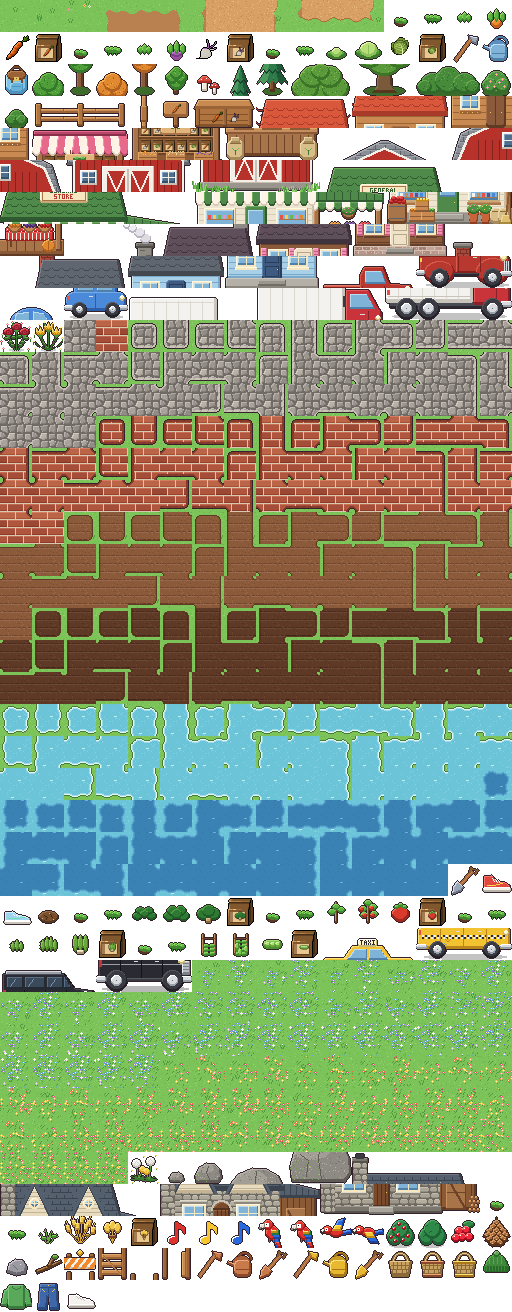
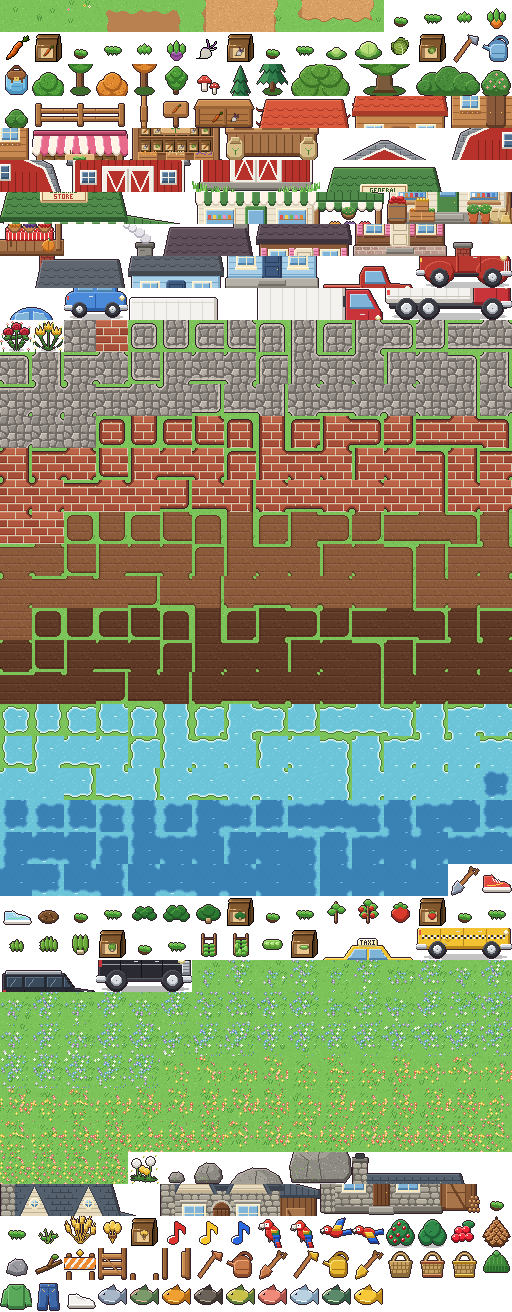
Fishing: cast at any water, reel in on the bite; two fish per season plus a rare golden carp
Claude-Session: https://claude.ai/code/session_01CUFVZi26bpobXi6vd3NcwX

Changed region(s): [[0.1875, 0.9688, 0.75, 1.0]]

diff --git a/src/art-index.js b/src/art-index.js
@@ -1,2 +1,2 @@
 // Generated by tools/make_art.py: tile names -> index in assets/art/world.png (16 columns of 32x32).
-export const A = {"grass0": 0, "grass1": 1, "grass2": 2, "path0": 3, "path1": 4, "path2": 5, "path3": 6, "path4": 7, "path5": 8, "path6": 9, "path7": 10, "path8": 11, "carrot0": 12, "carrot1": 13, "carrot2": 14, "carrot3": 15, "carrot_item": 16, "carrot_packet": 17, "turnip0": 18, "turnip1": 19, "turnip2": 20, "turnip3": 21, "turnip_item": 22, "turnip_packet": 23, "cabbage0": 24, "cabbage1": 25, "cabbage2": 26, "cabbage3": 27, "cabbage_item": 28, "cabbage_packet": 29, "hoe": 30, "can": 31, "bag": 32, "tree_green_0": 33, "tree_green_1": 34, "tree_orange_0": 35, "tree_orange_1": 36, "tree": 37, "mushrooms": 38, "pine_0": 39, "pine_1": 40, "oak_0": 41, "oak_1": 42, "oak_2": 43, "oak_3": 44, "shrub_large_0": 45, "shrub_large_1": 46, "shrub_flower": 47, "shrub_small": 48, "fence0": 49, "fence1": 50, "fence2": 51, "fence3": 52, "sign": 53, "bin_0": 54, "bin_1": 55, "house_0": 56, "house_1": 57, "house_2": 58, "house_3": 59, "house_4": 60, "house_5": 61, "house_6": 62, "house_7": 63, "house_8": 64, "shop_0": 65, "shop_1": 66, "shop_2": 67, "shop_3": 68, "shop_4": 69, "shop_5": 70, "shop_6": 71, "shop_7": 72, "shop_8": 73, "barn_0": 74, "barn_1": 75, "barn_2": 76, "barn_3": 77, "barn_4": 78, "barn_5": 79, "barn_6": 80, "barn_7": 81, "barn_8": 82, "barn_9": 83, "barn_10": 84, "barn_11": 85, "barn_12": 86, "barn_13": 87, "barn_14": 88, "barn_15": 89, "store_0": 90, "store_1": 91, "store_2": 92, "store_3": 93, "store_4": 94, "store_5": 95, "store_6": 96, "store_7": 97, "store_8": 98, "store_9": 99, "store_10": 100, "store_11": 101, "store_12": 102, "store_13": 103, "store_14": 104, "store_15": 105, "store_16": 106, "store_17": 107, "store_18": 108, "store_19": 109, "store_20": 110, "store_21": 111, "store_22": 112, "store_23": 113, "house_brown_0": 114, "house_brown_1": 115, "house_brown_2": 116, "house_brown_3": 117, "house_brown_4": 118, "house_brown_5": 119, "house_brown_6": 120, "house_brown_7": 121, "house_brown_8": 122, "house_brown_9": 123, "house_brown_10": 124, "house_brown_11": 125, "house_blue_0": 126, "house_blue_1": 127, "house_blue_2": 128, "house_blue_3": 129, "house_blue_4": 130, "house_blue_5": 131, "house_blue_6": 132, "house_blue_7": 133, "house_blue_8": 134, "house_blue_9": 135, "house_blue_10": 136, "house_blue_11": 137, "pickup_0": 138, "pickup_1": 139, "pickup_2": 140, "pickup_3": 141, "pickup_4": 142, "pickup_5": 143, "car_small_0": 144, "car_small_1": 145, "car_small_2": 146, "car_small_3": 147, "box_truck_0": 148, "box_truck_1": 149, "box_truck_2": 150, "box_truck_3": 151, "box_truck_4": 152, "box_truck_5": 153, "box_truck_6": 154, "box_truck_7": 155, "box_truck_8": 156, "box_truck_9": 157, "box_truck_10": 158, "box_truck_11": 159, "roses": 160, "tulips": 161, "cobble0": 162, "brick0": 163, "cobbleb0": 164, "cobbleb1": 165, "cobbleb2": 166, "cobbleb3": 167, "cobbleb4": 168, "cobbleb5": 169, "cobbleb6": 170, "cobbleb7": 171, "cobbleb8": 172, "cobbleb9": 173, "cobbleb10": 174, "cobbleb11": 175, "cobbleb12": 176, "cobbleb13": 177, "cobbleb14": 178, "cobbleb15": 179, "cobbleb16": 180, "cobbleb17": 181, "cobbleb18": 182, "cobbleb19": 183, "cobbleb20": 184, "cobbleb21": 185, "cobbleb22": 186, "cobbleb23": 187, "cobbleb24": 188, "cobbleb25": 189, "cobbleb26": 190, "cobbleb27": 191, "cobbleb28": 192, "cobbleb29": 193, "cobbleb30": 194, "cobbleb31": 195, "cobbleb32": 196, "cobbleb33": 197, "cobbleb34": 198, "cobbleb35": 199, "cobbleb36": 200, "cobbleb37": 201, "cobbleb38": 202, "cobbleb39": 203, "cobbleb40": 204, "cobbleb41": 205, "cobbleb42": 206, "cobbleb43": 207, "cobbleb44": 208, "cobbleb45": 209, "cobbleb46": 210, "brickb0": 211, "brickb1": 212, "brickb2": 213, "brickb3": 214, "brickb4": 215, "brickb5": 216, "brickb6": 217, "brickb7": 218, "brickb8": 219, "brickb9": 220, "brickb10": 221, "brickb11": 222, "brickb12": 223, "brickb13": 224, "brickb14": 225, "brickb15": 226, "brickb16": 227, "brickb17": 228, "brickb18": 229, "brickb19": 230, "brickb20": 231, "brickb21": 232, "brickb22": 233, "brickb23": 234, "brickb24": 235, "brickb25": 236, "brickb26": 237, "brickb27": 238, "brickb28": 239, "brickb29": 240, "brickb30": 241, "brickb31": 242, "brickb32": 243, "brickb33": 244, "brickb34": 245, "brickb35": 246, "brickb36": 247, "brickb37": 248, "brickb38": 249, "brickb39": 250, "brickb40": 251, "brickb41": 252, "brickb42": 253, "brickb43": 254, "brickb44": 255, "brickb45": 256, "brickb46": 257, "soil0": 258, "soil1": 259, "soil2": 260, "soil3": 261, "soil4": 262, "soil5": 263, "soil6": 264, "soil7": 265, "soil8": 266, "soil9": 267, "soil10": 268, "soil11": 269, "soil12": 270, "soil13": 271, "soil14": 272, "soil15": 273, "soil16": 274, "soil17": 275, "soil18": 276, "soil19": 277, "soil20": 278, "soil21": 279, "soil22": 280, "soil23": 281, "soil24": 282, "soil25": 283, "soil26": 284, "soil27": 285, "soil28": 286, "soil29": 287, "soil30": 288, "soil31": 289, "soil32": 290, "soil33": 291, "soil34": 292, "soil35": 293, "soil36": 294, "soil37": 295, "soil38": 296, "soil39": 297, "soil40": 298, "soil41": 299, "soil42": 300, "soil43": 301, "soil44": 302, "soil45": 303, "soil46": 304, "soilwet0": 305, "soilwet1": 306, "soilwet2": 307, "soilwet3": 308, "soilwet4": 309, "soilwet5": 310, "soilwet6": 311, "soilwet7": 312, "soilwet8": 313, "soilwet9": 314, "soilwet10": 315, "soilwet11": 316, "soilwet12": 317, "soilwet13": 318, "soilwet14": 319, "soilwet15": 320, "soilwet16": 321, "soilwet17": 322, "soilwet18": 323, "soilwet19": 324, "soilwet20": 325, "soilwet21": 326, "soilwet22": 327, "soilwet23": 328, "soilwet24": 329, "soilwet25": 330, "soilwet26": 331, "soilwet27": 332, "soilwet28": 333, "soilwet29": 334, "soilwet30": 335, "soilwet31": 336, "soilwet32": 337, "soilwet33": 338, "soilwet34": 339, "soilwet35": 340, "soilwet36": 341, "soilwet37": 342, "soilwet38": 343, "soilwet39": 344, "soilwet40": 345, "soilwet41": 346, "soilwet42": 347, "soilwet43": 348, "soilwet44": 349, "soilwet45": 350, "soilwet46": 351, "shallow0": 352, "shallow1": 353, "shallow2": 354, "shallow3": 355, "shallow4": 356, "shallow5": 357, "shallow6": 358, "shallow7": 359, "shallow8": 360, "shallow9": 361, "shallow10": 362, "shallow11": 363, "shallow12": 364, "shallow13": 365, "shallow14": 366, "shallow15": 367, "shallow16": 368, "shallow17": 369, "shallow18": 370, "shallow19": 371, "shallow20": 372, "shallow21": 373, "shallow22": 374, "shallow23": 375, "shallow24": 376, "shallow25": 377, "shallow26": 378, "shallow27": 379, "shallow28": 380, "shallow29": 381, "shallow30": 382, "shallow31": 383, "shallow32": 384, "shallow33": 385, "shallow34": 386, "shallow35": 387, "shallow36": 388, "shallow37": 389, "shallow38": 390, "shallow39": 391, "shallow40": 392, "shallow41": 393, "shallow42": 394, "shallow43": 395, "shallow44": 396, "shallow45": 397, "shallow46": 398, "deep0": 399, "deep1": 400, "deep2": 401, "deep3": 402, "deep4": 403, "deep5": 404, "deep6": 405, "deep7": 406, "deep8": 407, "deep9": 408, "deep10": 409, "deep11": 410, "deep12": 411, "deep13": 412, "deep14": 413, "deep15": 414, "deep16": 415, "deep17": 416, "deep18": 417, "deep19": 418, "deep20": 419, "deep21": 420, "deep22": 421, "deep23": 422, "deep24": 423, "deep25": 424, "deep26": 425, "deep27": 426, "deep28": 427, "deep29": 428, "deep30": 429, "deep31": 430, "deep32": 431, "deep33": 432, "deep34": 433, "deep35": 434, "deep36": 435, "deep37": 436, "deep38": 437, "deep39": 438, "deep40": 439, "deep41": 440, "deep42": 441, "deep43": 442, "deep44": 443, "deep45": 444, "deep46": 445, "shovel": 446, "shoes": 447, "sneakers": 448, "dig_spot": 449, "spinach0": 450, "spinach1": 451, "spinach2": 452, "spinach3": 453, "spinach_item": 454, "spinach_packet": 455, "tomato0": 456, "tomato1": 457, "tomato2": 458, "tomato3": 459, "tomato_item": 460, "tomato_packet": 461, "arugula0": 462, "arugula1": 463, "arugula2": 464, "arugula3": 465, "arugula_item": 466, "arugula_packet": 467, "peas0": 468, "peas1": 469, "peas2": 470, "peas3": 471, "peas_item": 472, "peas_packet": 473, "taxi_0": 474, "taxi_1": 475, "taxi_2": 476, "taxi_3": 477, "taxi_4": 478, "taxi_5": 479, "suv_0": 480, "suv_1": 481, "suv_2": 482, "suv_3": 483, "suv_4": 484, "suv_5": 485, "wildcool0": 486, "wildcool1": 487, "wildcool2": 488, "wildcool3": 489, "wildcool4": 490, "wildcool5": 491, "wildcool6": 492, "wildcool7": 493, "wildcool8": 494, "wildcool9": 495, "wildcool10": 496, "wildcool11": 497, "wildcool12": 498, "wildcool13": 499, "wildcool14": 500, "wildcool15": 501, "wildcool16": 502, "wildcool17": 503, "wildcool18": 504, "wildcool19": 505, "wildcool20": 506, "wildcool21": 507, "wildcool22": 508, "wildcool23": 509, "wildcool24": 510, "wildcool25": 511, "wildcool26": 512, "wildcool27": 513, "wildcool28": 514, "wildcool29": 515, "wildcool30": 516, "wildcool31": 517, "wildcool32": 518, "wildcool33": 519, "wildcool34": 520, "wildcool35": 521, "wildcool36": 522, "wildcool37": 523, "wildcool38": 524, "wildcool39": 525, "wildcool40": 526, "wildcool41": 527, "wildcool42": 528, "wildcool43": 529, "wildcool44": 530, "wildcool45": 531, "wildcool46": 532, "wildwarm0": 533, "wildwarm1": 534, "wildwarm2": 535, "wildwarm3": 536, "wildwarm4": 537, "wildwarm5": 538, "wildwarm6": 539, "wildwarm7": 540, "wildwarm8": 541, "wildwarm9": 542, "wildwarm10": 543, "wildwarm11": 544, "wildwarm12": 545, "wildwarm13": 546, "wildwarm14": 547, "wildwarm15": 548, "wildwarm16": 549, "wildwarm17": 550, "wildwarm18": 551, "wildwarm19": 552, "wildwarm20": 553, "wildwarm21": 554, "wildwarm22": 555, "wildwarm23": 556, "wildwarm24": 557, "wildwarm25": 558, "wildwarm26": 559, "wildwarm27": 560, "wildwarm28": 561, "wildwarm29": 562, "wildwarm30": 563, "wildwarm31": 564, "wildwarm32": 565, "wildwarm33": 566, "wildwarm34": 567, "wildwarm35": 568, "wildwarm36": 569, "wildwarm37": 570, "wildwarm38": 571, "wildwarm39": 572, "wildwarm40": 573, "wildwarm41": 574, "wildwarm42": 575, "wildwarm43": 576, "wildwarm44": 577, "wildwarm45": 578, "wildwarm46": 579, "dandelions": 580, "rock_small": 581, "rock_medium": 582, "rock_large_0": 583, "rock_large_1": 584, "rock_large_2": 585, "rock_large_3": 586, "stone_house_0": 587, "stone_house_1": 588, "stone_house_2": 589, "stone_house_3": 590, "stone_house_4": 591, "stone_house_5": 592, "stone_house_6": 593, "stone_house_7": 594, "stone_house_8": 595, "stone_house_9": 596, "stone_house_10": 597, "stone_house_11": 598, "stone_house_12": 599, "stone_house_13": 600, "stone_house_14": 601, "stone_house_15": 602, "stone_house_16": 603, "stone_house_17": 604, "stone_house_18": 605, "stone_house_19": 606, "wheat0": 607, "wheat1": 608, "wheat2": 609, "wheat3": 610, "wheat_item": 611, "wheat_packet": 612, "note_red": 613, "note_yellow": 614, "note_blue": 615, "bird0": 616, "bird1": 617, "bird_fly0": 618, "bird_fly1": 619, "berry_bush": 620, "berry_bush_bare": 621, "berries": 622, "pinecone": 623, "stone": 624, "stick": 625, "gate_0": 626, "gate_1": 627, "gate_open_0": 628, "gate_open_1": 629, "hoe_copper": 630, "can_copper": 631, "shovel_copper": 632, "hoe_gold": 633, "can_gold": 634, "shovel_gold": 635, "basket": 636, "basket_copper": 637, "basket_gold": 638, "beanie": 639, "longsleeve": 640, "jeans": 641, "white_sneakers": 642};
+export const A = {"grass0": 0, "grass1": 1, "grass2": 2, "path0": 3, "path1": 4, "path2": 5, "path3": 6, "path4": 7, "path5": 8, "path6": 9, "path7": 10, "path8": 11, "carrot0": 12, "carrot1": 13, "carrot2": 14, "carrot3": 15, "carrot_item": 16, "carrot_packet": 17, "turnip0": 18, "turnip1": 19, "turnip2": 20, "turnip3": 21, "turnip_item": 22, "turnip_packet": 23, "cabbage0": 24, "cabbage1": 25, "cabbage2": 26, "cabbage3": 27, "cabbage_item": 28, "cabbage_packet": 29, "hoe": 30, "can": 31, "bag": 32, "tree_green_0": 33, "tree_green_1": 34, "tree_orange_0": 35, "tree_orange_1": 36, "tree": 37, "mushrooms": 38, "pine_0": 39, "pine_1": 40, "oak_0": 41, "oak_1": 42, "oak_2": 43, "oak_3": 44, "shrub_large_0": 45, "shrub_large_1": 46, "shrub_flower": 47, "shrub_small": 48, "fence0": 49, "fence1": 50, "fence2": 51, "fence3": 52, "sign": 53, "bin_0": 54, "bin_1": 55, "house_0": 56, "house_1": 57, "house_2": 58, "house_3": 59, "house_4": 60, "house_5": 61, "house_6": 62, "house_7": 63, "house_8": 64, "shop_0": 65, "shop_1": 66, "shop_2": 67, "shop_3": 68, "shop_4": 69, "shop_5": 70, "shop_6": 71, "shop_7": 72, "shop_8": 73, "barn_0": 74, "barn_1": 75, "barn_2": 76, "barn_3": 77, "barn_4": 78, "barn_5": 79, "barn_6": 80, "barn_7": 81, "barn_8": 82, "barn_9": 83, "barn_10": 84, "barn_11": 85, "barn_12": 86, "barn_13": 87, "barn_14": 88, "barn_15": 89, "store_0": 90, "store_1": 91, "store_2": 92, "store_3": 93, "store_4": 94, "store_5": 95, "store_6": 96, "store_7": 97, "store_8": 98, "store_9": 99, "store_10": 100, "store_11": 101, "store_12": 102, "store_13": 103, "store_14": 104, "store_15": 105, "store_16": 106, "store_17": 107, "store_18": 108, "store_19": 109, "store_20": 110, "store_21": 111, "store_22": 112, "store_23": 113, "house_brown_0": 114, "house_brown_1": 115, "house_brown_2": 116, "house_brown_3": 117, "house_brown_4": 118, "house_brown_5": 119, "house_brown_6": 120, "house_brown_7": 121, "house_brown_8": 122, "house_brown_9": 123, "house_brown_10": 124, "house_brown_11": 125, "house_blue_0": 126, "house_blue_1": 127, "house_blue_2": 128, "house_blue_3": 129, "house_blue_4": 130, "house_blue_5": 131, "house_blue_6": 132, "house_blue_7": 133, "house_blue_8": 134, "house_blue_9": 135, "house_blue_10": 136, "house_blue_11": 137, "pickup_0": 138, "pickup_1": 139, "pickup_2": 140, "pickup_3": 141, "pickup_4": 142, "pickup_5": 143, "car_small_0": 144, "car_small_1": 145, "car_small_2": 146, "car_small_3": 147, "box_truck_0": 148, "box_truck_1": 149, "box_truck_2": 150, "box_truck_3": 151, "box_truck_4": 152, "box_truck_5": 153, "box_truck_6": 154, "box_truck_7": 155, "box_truck_8": 156, "box_truck_9": 157, "box_truck_10": 158, "box_truck_11": 159, "roses": 160, "tulips": 161, "cobble0": 162, "brick0": 163, "cobbleb0": 164, "cobbleb1": 165, "cobbleb2": 166, "cobbleb3": 167, "cobbleb4": 168, "cobbleb5": 169, "cobbleb6": 170, "cobbleb7": 171, "cobbleb8": 172, "cobbleb9": 173, "cobbleb10": 174, "cobbleb11": 175, "cobbleb12": 176, "cobbleb13": 177, "cobbleb14": 178, "cobbleb15": 179, "cobbleb16": 180, "cobbleb17": 181, "cobbleb18": 182, "cobbleb19": 183, "cobbleb20": 184, "cobbleb21": 185, "cobbleb22": 186, "cobbleb23": 187, "cobbleb24": 188, "cobbleb25": 189, "cobbleb26": 190, "cobbleb27": 191, "cobbleb28": 192, "cobbleb29": 193, "cobbleb30": 194, "cobbleb31": 195, "cobbleb32": 196, "cobbleb33": 197, "cobbleb34": 198, "cobbleb35": 199, "cobbleb36": 200, "cobbleb37": 201, "cobbleb38": 202, "cobbleb39": 203, "cobbleb40": 204, "cobbleb41": 205, "cobbleb42": 206, "cobbleb43": 207, "cobbleb44": 208, "cobbleb45": 209, "cobbleb46": 210, "brickb0": 211, "brickb1": 212, "brickb2": 213, "brickb3": 214, "brickb4": 215, "brickb5": 216, "brickb6": 217, "brickb7": 218, "brickb8": 219, "brickb9": 220, "brickb10": 221, "brickb11": 222, "brickb12": 223, "brickb13": 224, "brickb14": 225, "brickb15": 226, "brickb16": 227, "brickb17": 228, "brickb18": 229, "brickb19": 230, "brickb20": 231, "brickb21": 232, "brickb22": 233, "brickb23": 234, "brickb24": 235, "brickb25": 236, "brickb26": 237, "brickb27": 238, "brickb28": 239, "brickb29": 240, "brickb30": 241, "brickb31": 242, "brickb32": 243, "brickb33": 244, "brickb34": 245, "brickb35": 246, "brickb36": 247, "brickb37": 248, "brickb38": 249, "brickb39": 250, "brickb40": 251, "brickb41": 252, "brickb42": 253, "brickb43": 254, "brickb44": 255, "brickb45": 256, "brickb46": 257, "soil0": 258, "soil1": 259, "soil2": 260, "soil3": 261, "soil4": 262, "soil5": 263, "soil6": 264, "soil7": 265, "soil8": 266, "soil9": 267, "soil10": 268, "soil11": 269, "soil12": 270, "soil13": 271, "soil14": 272, "soil15": 273, "soil16": 274, "soil17": 275, "soil18": 276, "soil19": 277, "soil20": 278, "soil21": 279, "soil22": 280, "soil23": 281, "soil24": 282, "soil25": 283, "soil26": 284, "soil27": 285, "soil28": 286, "soil29": 287, "soil30": 288, "soil31": 289, "soil32": 290, "soil33": 291, "soil34": 292, "soil35": 293, "soil36": 294, "soil37": 295, "soil38": 296, "soil39": 297, "soil40": 298, "soil41": 299, "soil42": 300, "soil43": 301, "soil44": 302, "soil45": 303, "soil46": 304, "soilwet0": 305, "soilwet1": 306, "soilwet2": 307, "soilwet3": 308, "soilwet4": 309, "soilwet5": 310, "soilwet6": 311, "soilwet7": 312, "soilwet8": 313, "soilwet9": 314, "soilwet10": 315, "soilwet11": 316, "soilwet12": 317, "soilwet13": 318, "soilwet14": 319, "soilwet15": 320, "soilwet16": 321, "soilwet17": 322, "soilwet18": 323, "soilwet19": 324, "soilwet20": 325, "soilwet21": 326, "soilwet22": 327, "soilwet23": 328, "soilwet24": 329, "soilwet25": 330, "soilwet26": 331, "soilwet27": 332, "soilwet28": 333, "soilwet29": 334, "soilwet30": 335, "soilwet31": 336, "soilwet32": 337, "soilwet33": 338, "soilwet34": 339, "soilwet35": 340, "soilwet36": 341, "soilwet37": 342, "soilwet38": 343, "soilwet39": 344, "soilwet40": 345, "soilwet41": 346, "soilwet42": 347, "soilwet43": 348, "soilwet44": 349, "soilwet45": 350, "soilwet46": 351, "shallow0": 352, "shallow1": 353, "shallow2": 354, "shallow3": 355, "shallow4": 356, "shallow5": 357, "shallow6": 358, "shallow7": 359, "shallow8": 360, "shallow9": 361, "shallow10": 362, "shallow11": 363, "shallow12": 364, "shallow13": 365, "shallow14": 366, "shallow15": 367, "shallow16": 368, "shallow17": 369, "shallow18": 370, "shallow19": 371, "shallow20": 372, "shallow21": 373, "shallow22": 374, "shallow23": 375, "shallow24": 376, "shallow25": 377, "shallow26": 378, "shallow27": 379, "shallow28": 380, "shallow29": 381, "shallow30": 382, "shallow31": 383, "shallow32": 384, "shallow33": 385, "shallow34": 386, "shallow35": 387, "shallow36": 388, "shallow37": 389, "shallow38": 390, "shallow39": 391, "shallow40": 392, "shallow41": 393, "shallow42": 394, "shallow43": 395, "shallow44": 396, "shallow45": 397, "shallow46": 398, "deep0": 399, "deep1": 400, "deep2": 401, "deep3": 402, "deep4": 403, "deep5": 404, "deep6": 405, "deep7": 406, "deep8": 407, "deep9": 408, "deep10": 409, "deep11": 410, "deep12": 411, "deep13": 412, "deep14": 413, "deep15": 414, "deep16": 415, "deep17": 416, "deep18": 417, "deep19": 418, "deep20": 419, "deep21": 420, "deep22": 421, "deep23": 422, "deep24": 423, "deep25": 424, "deep26": 425, "deep27": 426, "deep28": 427, "deep29": 428, "deep30": 429, "deep31": 430, "deep32": 431, "deep33": 432, "deep34": 433, "deep35": 434, "deep36": 435, "deep37": 436, "deep38": 437, "deep39": 438, "deep40": 439, "deep41": 440, "deep42": 441, "deep43": 442, "deep44": 443, "deep45": 444, "deep46": 445, "shovel": 446, "shoes": 447, "sneakers": 448, "dig_spot": 449, "spinach0": 450, "spinach1": 451, "spinach2": 452, "spinach3": 453, "spinach_item": 454, "spinach_packet": 455, "tomato0": 456, "tomato1": 457, "tomato2": 458, "tomato3": 459, "tomato_item": 460, "tomato_packet": 461, "arugula0": 462, "arugula1": 463, "arugula2": 464, "arugula3": 465, "arugula_item": 466, "arugula_packet": 467, "peas0": 468, "peas1": 469, "peas2": 470, "peas3": 471, "peas_item": 472, "peas_packet": 473, "taxi_0": 474, "taxi_1": 475, "taxi_2": 476, "taxi_3": 477, "taxi_4": 478, "taxi_5": 479, "suv_0": 480, "suv_1": 481, "suv_2": 482, "suv_3": 483, "suv_4": 484, "suv_5": 485, "wildcool0": 486, "wildcool1": 487, "wildcool2": 488, "wildcool3": 489, "wildcool4": 490, "wildcool5": 491, "wildcool6": 492, "wildcool7": 493, "wildcool8": 494, "wildcool9": 495, "wildcool10": 496, "wildcool11": 497, "wildcool12": 498, "wildcool13": 499, "wildcool14": 500, "wildcool15": 501, "wildcool16": 502, "wildcool17": 503, "wildcool18": 504, "wildcool19": 505, "wildcool20": 506, "wildcool21": 507, "wildcool22": 508, "wildcool23": 509, "wildcool24": 510, "wildcool25": 511, "wildcool26": 512, "wildcool27": 513, "wildcool28": 514, "wildcool29": 515, "wildcool30": 516, "wildcool31": 517, "wildcool32": 518, "wildcool33": 519, "wildcool34": 520, "wildcool35": 521, "wildcool36": 522, "wildcool37": 523, "wildcool38": 524, "wildcool39": 525, "wildcool40": 526, "wildcool41": 527, "wildcool42": 528, "wildcool43": 529, "wildcool44": 530, "wildcool45": 531, "wildcool46": 532, "wildwarm0": 533, "wildwarm1": 534, "wildwarm2": 535, "wildwarm3": 536, "wildwarm4": 537, "wildwarm5": 538, "wildwarm6": 539, "wildwarm7": 540, "wildwarm8": 541, "wildwarm9": 542, "wildwarm10": 543, "wildwarm11": 544, "wildwarm12": 545, "wildwarm13": 546, "wildwarm14": 547, "wildwarm15": 548, "wildwarm16": 549, "wildwarm17": 550, "wildwarm18": 551, "wildwarm19": 552, "wildwarm20": 553, "wildwarm21": 554, "wildwarm22": 555, "wildwarm23": 556, "wildwarm24": 557, "wildwarm25": 558, "wildwarm26": 559, "wildwarm27": 560, "wildwarm28": 561, "wildwarm29": 562, "wildwarm30": 563, "wildwarm31": 564, "wildwarm32": 565, "wildwarm33": 566, "wildwarm34": 567, "wildwarm35": 568, "wildwarm36": 569, "wildwarm37": 570, "wildwarm38": 571, "wildwarm39": 572, "wildwarm40": 573, "wildwarm41": 574, "wildwarm42": 575, "wildwarm43": 576, "wildwarm44": 577, "wildwarm45": 578, "wildwarm46": 579, "dandelions": 580, "rock_small": 581, "rock_medium": 582, "rock_large_0": 583, "rock_large_1": 584, "rock_large_2": 585, "rock_large_3": 586, "stone_house_0": 587, "stone_house_1": 588, "stone_house_2": 589, "stone_house_3": 590, "stone_house_4": 591, "stone_house_5": 592, "stone_house_6": 593, "stone_house_7": 594, "stone_house_8": 595, "stone_house_9": 596, "stone_house_10": 597, "stone_house_11": 598, "stone_house_12": 599, "stone_house_13": 600, "stone_house_14": 601, "stone_house_15": 602, "stone_house_16": 603, "stone_house_17": 604, "stone_house_18": 605, "stone_house_19": 606, "wheat0": 607, "wheat1": 608, "wheat2": 609, "wheat3": 610, "wheat_item": 611, "wheat_packet": 612, "note_red": 613, "note_yellow": 614, "note_blue": 615, "bird0": 616, "bird1": 617, "bird_fly0": 618, "bird_fly1": 619, "berry_bush": 620, "berry_bush_bare": 621, "berries": 622, "pinecone": 623, "stone": 624, "stick": 625, "gate_0": 626, "gate_1": 627, "gate_open_0": 628, "gate_open_1": 629, "hoe_copper": 630, "can_copper": 631, "shovel_copper": 632, "hoe_gold": 633, "can_gold": 634, "shovel_gold": 635, "basket": 636, "basket_copper": 637, "basket_gold": 638, "beanie": 639, "longsleeve": 640, "jeans": 641, "white_sneakers": 642, "fish_minnow": 643, "fish_trout": 644, "fish_sunfish": 645, "fish_catfish": 646, "fish_perch": 647, "fish_salmon": 648, "fish_smelt": 649, "fish_pike": 650, "fish_carp": 651};

diff --git a/src/scenes.js b/src/scenes.js
@@ -15,7 +15,7 @@ import { Events, MINSTREL_LINES } from './events.js';
 import { GATES } from './unlocks.js';
 import { Quests } from './quests.js';
 import { UPGRADES, START_LEVELS, MAX_LEVEL, toolIcon, toolName, costText, area } from './upgrades.js';
-import { FORAGE, SPREAD, scatterForage, bushAt, pickBush, regrowBushes } from './forage.js';
+import { FORAGE, CAST_ENERGY, BITE_WAIT, BITE_TIME, catchFish, SPREAD, scatterForage, bushAt, pickBush, regrowBushes } from './forage.js';
 import { PLANTS, DIG_SPOTS, DIG_ENERGY, scatterDigs, digFind } from './dig.js';
 import { A } from './art-index.js';
 import { PET_CHANCE, KINDS, SOUNDS, TRUST, MAX_PETS, petLook, paintPet, earnTrust } from './pets.js';
@@ -309,6 +309,7 @@ export class World {
       }
     }
     if (!this.open && (inp.hit('Space', 'KeyE', 'Enter') || inp.tapIn(...b.act))) this.act();
+    this.fish(dt);
     this.clock.update(dt * 1000);
     this.schedule();
     this.events.update(this, dt);
@@ -578,10 +579,34 @@ export class World {
     return `${Math.floor((this.x + 8 + dx * 10) / TILE)},${Math.floor((this.y + 13 + dy * 10) / TILE)}`;
   }
 
+  // Fishing: Use facing water casts a line; a while later something bites, and Use again in time lands it. Walking off reels in.
+  waterAt(key) { const [x, y] = key.split(',').map(Number), m = this.map; return x >= 0 && y >= 0 && x < m.W && y < m.H && /^(shallow|deep)/.test(m.ground[y * m.W + x]); }
+  cast(key) {
+    if (!this.clock.useEnergy(CAST_ENERGY)) { sfx('nope'); return this.say('Too tired to fish. Sleep at your front door.'); }
+    this.fishing = { key, t: BITE_WAIT[0] + Math.random() * (BITE_WAIT[1] - BITE_WAIT[0]), bite: false, x: this.x, y: this.y };
+    sfx('water'); this.say(this.clock.season === 3 ? 'You drop a line through the ice... Press Use when it bites!' : 'You cast a line... Press Use when it bites!');
+  }
+  reel() {
+    const f = this.fishing; this.fishing = null;
+    if (!f.bite) return this.say('You pulled too soon.');
+    const id = catchFish(this.clock.season);
+    if (!this.inv.add(id, 1)) return this.say('Your bag is full. The fish got away.');
+    sfx(id === 'fish_carp' ? 'coin' : 'harvest'); this.say(id === 'fish_carp' ? 'A golden carp! What a catch!' : `Caught a ${FORAGE[id].name.toLowerCase()}!`);
+  }
+  fish(dt) {
+    const f = this.fishing;
+    if (!f) return;
+    if (this.x !== f.x || this.y !== f.y) { this.fishing = null; return; }
+    if ((f.t -= dt) > 0) return;
+    if (!f.bite) { f.bite = true; f.t = BITE_TIME; sfx('click'); } else { this.fishing = null; this.say('It got away...'); }
+  }
+
   // Ripe crops are picked by hand; otherwise the held tool decides what happens.
   act() {
     const key = this.facing(), f = this.field, held = this.inv.held?.id;
+    if (this.fishing) return this.reel();
     const v = this.villagerAhead();
+    if (!v && this.waterAt(key)) return this.cast(key);
     if (v?.role === 'stranger') { // turns to you, says something cryptic
       v.walker.dir = [DIRS.up, DIRS.right, DIRS.left, DIRS.down][this.player.dir]; v.wait = 2;
       this.say(`Hooded stranger: ${STRANGER_LINES[Math.floor(Math.random() * STRANGER_LINES.length)]}`);
@@ -1184,6 +1209,11 @@ export class World {
       c.globalAlpha = 1;
     }
     this.events.drawAbove(this, cx, cy);
+    if (this.fishing) { // the bobber on the water (it dips at a bite), and a "!" over your head
+      const f = this.fishing, [bx, by] = f.key.split(',').map(n => n * TILE), yy = by - cy + 7 + (f.bite ? 2 : Math.round(Math.sin(performance.now() / 300)));
+      c.fillStyle = '#ffffff'; c.fillRect(bx - cx + 6, yy, 3, 2); c.fillStyle = '#e8343a'; c.fillRect(bx - cx + 6, yy - 2, 3, 2);
+      if (f.bite) g.text('!', this.x - cx + 8, this.y - cy - 10, { size: 10, bold: true, align: 'center', color: '#fff3a8' });
+    }
     if (this.rain) { // rain streaks, or drifting snow in winter; they hold still against the ground as you walk
       const snow = this.clock.season === 3, t = performance.now() / 1000;
       c.fillStyle = snow ? '#ffffffcc' : '#bcd8ff88';

diff --git a/src/forage.js b/src/forage.js
@@ -7,7 +7,17 @@ export const FORAGE = {
   pinecone: { name: 'Pinecone', icon: 'pinecone', price: 2 },
   stone: { name: 'Stone', icon: 'stone', price: 2 },
   stick: { name: 'Stick', icon: 'stick', price: 2 },
+  // Fish: press Use facing water to cast, and again when it bites.
+  fish_minnow: { name: 'Minnow', icon: 'fish_minnow', price: 12 }, fish_trout: { name: 'Trout', icon: 'fish_trout', price: 45 },
+  fish_sunfish: { name: 'Sunfish', icon: 'fish_sunfish', price: 15 }, fish_catfish: { name: 'Catfish', icon: 'fish_catfish', price: 55 },
+  fish_perch: { name: 'Perch', icon: 'fish_perch', price: 18 }, fish_salmon: { name: 'Salmon', icon: 'fish_salmon', price: 60 },
+  fish_smelt: { name: 'Smelt', icon: 'fish_smelt', price: 14 }, fish_pike: { name: 'Pike', icon: 'fish_pike', price: 70 },
+  fish_carp: { name: 'Golden Carp', icon: 'fish_carp', price: 250 },
 };
+// Fishing: each season has a common fish and a rarer one; the golden carp turns up anywhere, very rarely.
+export const FISH = [['fish_minnow', 'fish_trout'], ['fish_sunfish', 'fish_catfish'], ['fish_perch', 'fish_salmon'], ['fish_smelt', 'fish_pike']];
+export const CAST_ENERGY = 4, BITE_WAIT = [1.5, 4.5], BITE_TIME = 0.8; // energy per cast; seconds until a bite (min, max); seconds you have to reel it in
+export function catchFish(season, rand = Math.random) { const r = rand(); return r < 0.03 ? 'fish_carp' : FISH[season][r < 0.3 ? 1 : 0]; }
 // What falls by each kind of tree (by its top-left tile).
 const DROPS = { pine_0: 'pinecone', oak_0: 'stick', tree_green_0: 'stick', tree_orange_0: 'stick' };
 export const BERRIES_PER_BUSH = [1, 3]; // picked at once (min, max)

diff --git a/test/forage.test.js b/test/forage.test.js
@@ -6,7 +6,7 @@ import { findPath } from '../src/villagers.js';
 import { exitRows } from '../src/map-data.js';
 
 test('forage sells for 2 gold each, and berries can be eaten', () => {
-  for (const f of Object.values(FORAGE)) assert.equal(f.price, 2);
+  for (const [id, f] of Object.entries(FORAGE)) if (!id.startsWith('fish_')) assert.equal(f.price, 2);
   assert.ok(FORAGE.berries.energy > 0);
 });
 let sticks = 0;
@@ -37,4 +37,10 @@ test('the farm only gets a few at a time', () => {
   const m = LOCATIONS.farm.build();
   for (let i = 0; i < 10; i++) scatterForage(m, SPREAD.farm);
   assert.ok(m.forage.size <= SPREAD.farm.cap);
+});
+
+test('each season has its own fish, and the golden carp is rare', async () => {
+  const { catchFish, FISH, FORAGE } = await import('../src/forage.js'), { A } = await import('../src/art-index.js');
+  for (let s = 0; s < 4; s++) { assert.equal(catchFish(s, () => 0.9), FISH[s][0]); assert.equal(catchFish(s, () => 0.2), FISH[s][1]); assert.equal(catchFish(s, () => 0.01), 'fish_carp'); }
+  for (const id of [...FISH.flat(), 'fish_carp']) { assert.ok(FORAGE[id].price > 0); assert.ok(A[FORAGE[id].icon] !== undefined); }
 });

diff --git a/src/guide.js b/src/guide.js
@@ -77,6 +77,10 @@ export const GUIDE = [
     '- The Wilds are full of forage, and they grow anew every few days.',
     '- Walk over forage to pick it up, and press Use on berry bushes.',
     '- Stray cats and dogs live there. Pet them or give them berries: at 3 hearts, you can adopt one.',
+    '# Fishing',
+    '- Face any water and press Use to cast a line. It costs a little energy.',
+    '- When a "!" appears, press Use again quickly to land the fish. Too early or too late, and it gets away.',
+    '- Each season has its own fish, and you can fish through the ice in Winter. Sell fish in the shipping bin or to Fredrick.',
     '# Digging',
     '- With a shovel, you can dig up loose earth for finds, or move small plants to your farm.',
     '# The Map',

diff --git a/tools/make_art.py b/tools/make_art.py
@@ -1353,6 +1353,17 @@ add('berry_bush', berry_bush()); add('berry_bush_bare', berry_bush(False)); add(
 for t in ('copper', 'gold'): add(f'hoe_{t}', tier(hoe(), t)); add(f'can_{t}', tier(can(), t)); add(f'shovel_{t}', tier(shovel(), t))
 add('basket', basket(1)); add('basket_copper', basket(2)); add('basket_gold', basket(3))
 add('beanie', beanie()); add('longsleeve', longsleeve()); add('jeans', jeans()); add('white_sneakers', white_sneakers())
+# Fish (src/forage.js): one shape in each fish's colours (body, light belly, dark back).
+def fish(base, light, dark):
+    im = new()
+    shape(im, lambda d: d.polygon([(22, 16), (29, 9), (29, 23)]), dark, base, dark, 1)  # tail
+    shape(im, lambda d: d.ellipse([3, 9, 25, 23]), base, light, dark, 2)
+    d = ImageDraw.Draw(im); d.polygon([(11, 9), (17, 5), (19, 10)], C(dark)); d.line([(8, 20), (18, 21)], C(light))
+    d.rectangle([7, 13, 8, 14], C('#2a1a2a')); d.point((7, 13), C('#ffffff'))
+    return outline(im)
+for n, cols in dict(minnow=('#a8b8c8', '#dce8f0', '#6a7a8c'), trout=('#7a9a6a', '#e8b0a0', '#4a6a44'), sunfish=('#f0a030', '#ffe080', '#b06a18'), catfish=('#6a6258', '#b8ae9c', '#3e3830'),
+                    perch=('#c8c048', '#f0e8a0', '#5a7a3a'), salmon=('#f08a78', '#ffc8b8', '#a8504a'), smelt=('#b8d0e0', '#f0f8ff', '#7a98b0'), pike=('#5a8a6a', '#d8e8b8', '#345a44'),
+                    carp=('#f6c838', '#fff3a8', '#c08a18')).items(): add('fish_' + n, fish(*cols))
 # Wilds pets: cats and dogs drawn in key colours that the game swaps for a random coat (src/pets.js keeps the same keys).
 # coat (base, light, dark), markings (tabby stripes or patches), white-ish belly/paws, eyes.
 PET_KEY = dict(coat=('#ff1001', '#ff1002', '#ff1003'), mark='#10ff01', belly='#0110ff', belly_d='#0110fe', eye='#ff10ff')
